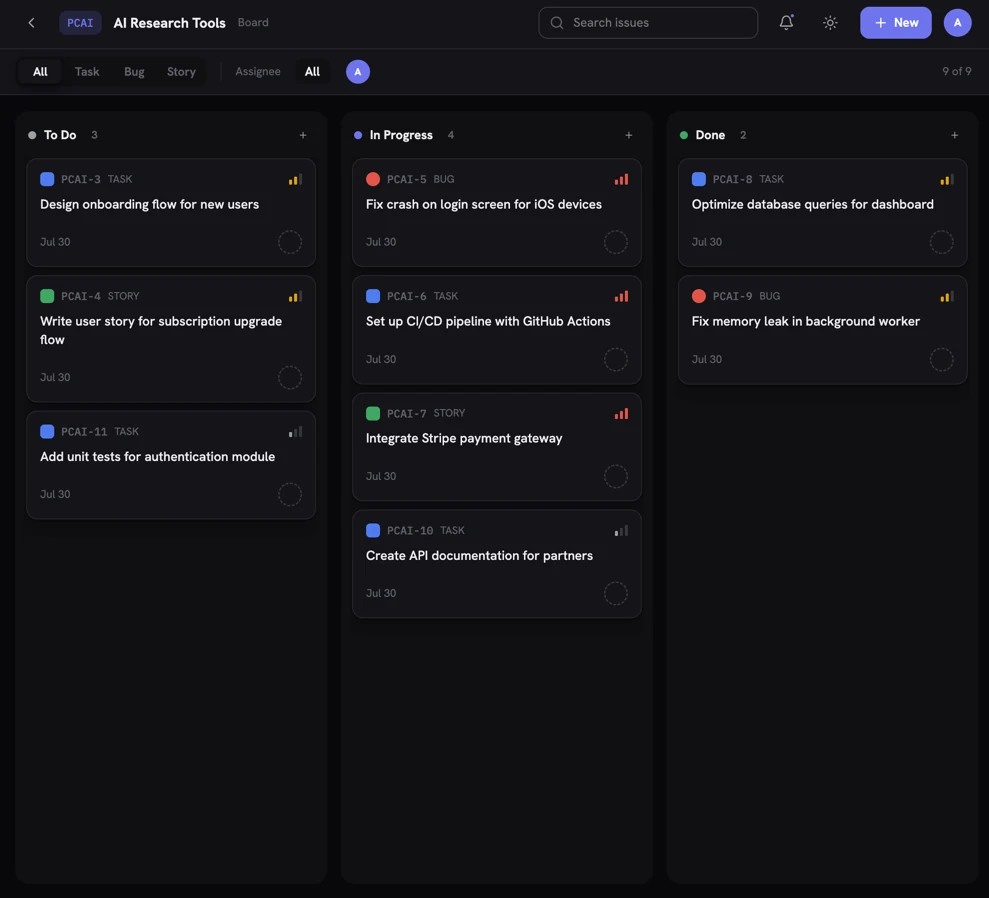
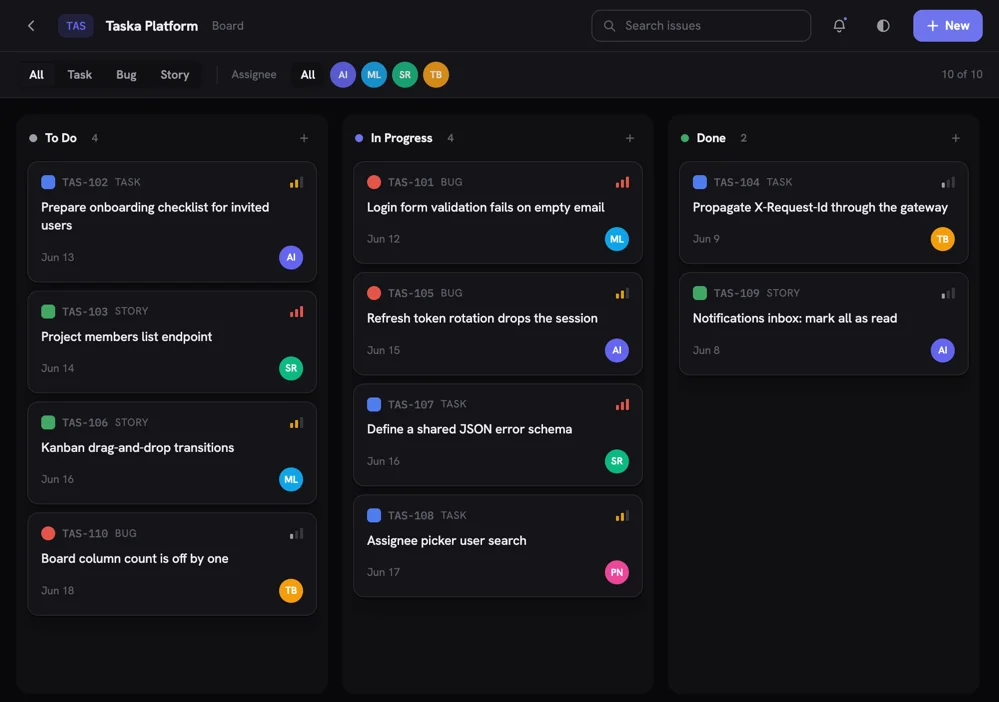
LOD-9 publish Taska captures that do not need cropping
The case spread had an unsolvable geometry and two rejected attempts behind it.
Measured from the sources, the old projects capture carried real content in
only the top 301 of its 768 rows, so 61% of the published frame was empty
indigo; the board wasted 31% the same way. Cropping the emptiness in CSS left a
4.10 strip that rendered a 1234px interface at 0.34 scale in a 0.75fr column.
Moving that strip full-width made it legible but pushed the board off the same
screen, which is the one thing the spread exists to avoid. A 1.60 asset and a
4.10 asset cannot share a row and be simultaneously comparable in height,
legible, and complete.

The owner supplied new captures, which removes the constraint instead of
trading against it: a 1.42 board and a 1.58 projects screen, neither carrying
empty background, both published whole at native ratio. The projects view now
renders at 0.60 of native rather than 0.34.

The phone rule forcing the primary to 4/5 is gone. Against the new capture it
cropped horizontally about the centre and hid the To Do and Done columns
entirely — it had only ever worked by zooming past the old capture's dead
margin, so it was covering for the defect rather than art-directing anything.

The board now shows real Taska development work rather than seeded demo data,
which is stronger evidence for something labelled IN DEVELOPMENT. Alt text in
both locales is rewritten to match: the projects screen shows four workspaces,
[…]

diff --git a/src/siteContent.ts b/src/siteContent.ts
@@ -230,9 +230,9 @@ export const uiCopy: Record<Language, UiCopy> = {
         note:
           'This is an active development project, not a completed customer case.',
         boardAlt:
-          'Taska dark-mode Kanban board with To Do, In Progress, and Done columns',
+          'Taska issue board in dark mode with To Do, In Progress, and Done columns holding ten task, bug, and story cards, each with a date and an assignee avatar',
         projectsAlt:
-          'Taska projects overview with three project workspaces',
+          'Taska projects screen with four project workspace cards, each showing a short description, member avatars, and an issue count',
         boardCaption: 'Issue board — current product interface',
         projectsCaption: 'Project workspaces — supporting view',
       },
@@ -296,7 +296,7 @@ export const uiCopy: Record<Language, UiCopy> = {
       description:
         'Ozero maintains a curated network of engineers around Java-heavy product work. Experienced onboarding, technical oversight, mentoring, and architecture support are available when the engagement needs them.',
       facts: [
-        'Each principal has more than six years of engineering experience',
+        'Each of the two principals has more than six years of engineering experience',
         'Network engineers average about three years of development experience',
         'The network covers Java, full-stack, and project-management work',
         'An English-speaking subset is available; language fit is confirmed during matching',
@@ -325,7 +325,7 @@ export const uiCopy: Record<Language, UiCopy> = {
         {
           question: 'What experience and language coverage is available?',
           answer:
-            'Each principal has more than six years of engineering experience, while network engineers average about three years. Part of the network can work in English; language fit is confirmed during matching.',
+            'Each of the two principals has more than six years of engineering experience, while network engineers average about three years. Part of the network can work in English; language fit is confirmed during matching.',
         },
         {
           question: 'Do you work beyond team extension?',
@@ -457,9 +457,9 @@ export const uiCopy: Record<Language, UiCopy> = {
         note:
           'Это активная разработка, а не завершённый клиентский кейс.',
         boardAlt:
-          'Тёмная Kanban-доска Taska с колонками To Do, In Progress и Done',
+          'Тёмная доска задач Taska с колонками To Do, In Progress и Done: десять карточек task, bug и story, у каждой дата и аватар исполнителя',
         projectsAlt:
-          'Экран проектов Taska с тремя рабочими пространствами',
+          'Экран проектов Taska с четырьмя карточками рабочих пространств: у каждой краткое описание, аватары участников и число задач',
         boardCaption: 'Доска задач — текущий интерфейс продукта',
         projectsCaption: 'Рабочие пространства — дополнительный экран',
       },
@@ -509,7 +509,7 @@ export const uiCopy: Record<Language, UiCopy> = {
         {
           title: 'Старт',
           description:
-            'Реалистичный срок выхода на проект — от одной до трёх недель. Минимальный срок сотрудничества — один месяц.',
+            'Реалистичный срок подключения — от одной до трёх недель. Минимальный срок сотрудничества — один месяц.',
         },
         {
           title: 'Работа',
@@ -542,7 +542,7 @@ export const uiCopy: Record<Language, UiCopy> = {
         {
           question: 'Как быстро можно начать?',
           answer:
-            'Реалистичный срок выхода разработчика или небольшой команды — от одной до трёх недель после того, как согласованы формат работы и доступность. Минимальный срок сотрудничества — один месяц.',
+            'Реалистичный срок подключения разработчика или небольшой команды — от одной до трёх недель после того, как согласованы формат работы и доступность. Минимальный срок сотрудничества — один месяц.',
         },
         {
           question: 'Кто отвечает за продуктовый план и приоритеты?',

diff --git a/index.html b/index.html
@@ -17,14 +17,38 @@
     />
     <meta property="og:type" content="website" />
     <meta property="og:url" content="https://ozero.dev" />
-    <meta property="og:image" content="https://ozero.dev/fishman.png" />
+    <meta property="og:site_name" content="ozero.dev" />
+    <!-- One static document with a client-side locale switch, so the second
+         language is declared as an alternate rather than a separate URL. -->
+    <meta property="og:locale" content="en_US" />
+    <meta property="og:locale:alternate" content="ru_RU" />
+    <!-- Absolute: Telegram and several other scrapers will not resolve a
+         relative og:image. -->
+    <meta
+      property="og:image"
+      content="https://ozero.dev/media/social/og-cover.jpg"
+    />
+    <meta property="og:image:width" content="1200" />
+    <meta property="og:image:height" content="630" />
+    <meta property="og:image:type" content="image/jpeg" />
+    <meta
+      property="og:image:alt"
+      content="The ozero.dev wordmark over dark lake water, above the lines “Java-first team extension” and “One engineer or a small squad · Realistic start in 1–3 weeks”."
+    />
     <meta name="twitter:card" content="summary_large_image" />
     <meta name="twitter:title" content="ozero.dev | Java-first team extension" />
     <meta
       name="twitter:description"
       content="Java-first team extension for startups and growing companies, with managed delivery and AI integrations also available."
     />
-    <meta name="twitter:image" content="https://ozero.dev/fishman.png" />
+    <meta
+      name="twitter:image"
+      content="https://ozero.dev/media/social/og-cover.jpg"
+    />
+    <meta
+      name="twitter:image:alt"
+      content="The ozero.dev wordmark over dark lake water, above the lines “Java-first team extension” and “One engineer or a small squad · Realistic start in 1–3 weeks”."
+    />
     <title>ozero.dev | Java-first team extension</title>
   </head>
   <body>

diff --git a/src/components/ContentExperience.tsx b/src/components/ContentExperience.tsx
@@ -92,8 +92,8 @@ export const ContentExperience = ({
               <div className="case-image-frame">
                 <img
                   src="/media/cases/taska-board.webp"
-                  width="989"
-                  height="898"
+                  width="999"
+                  height="702"
                   loading="lazy"
                   decoding="async"
                   alt={content.work.taska.boardAlt}
@@ -105,8 +105,8 @@ export const ContentExperience = ({
               <div className="case-image-frame">
                 <img
                   src="/media/cases/taska-projects.webp"
-                  width="1234"
-                  height="768"
+                  width="713"
+                  height="450"
                   loading="lazy"
                   decoding="async"
                   alt={content.work.taska.projectsAlt}
@@ -123,10 +123,14 @@ export const ContentExperience = ({
 
     <div className="research-band">
       <article className="content-shell research-case">
-        <div className="research-case__copy" data-reveal>
-          <p className="status-label">{content.work.ai.status}</p>
-          <h3>{content.work.ai.title}</h3>
-          <p>{content.work.ai.description}</p>
+        <div className="research-case__aside">
+          <div className="research-case__copy" data-reveal>
+            <p className="status-label">{content.work.ai.status}</p>
+            <h3>{content.work.ai.title}</h3>
+            <p>{content.work.ai.description}</p>
+          </div>
+
+          <p className="research-case__note">{content.work.ai.note}</p>
         </div>
 
         <ol
@@ -150,8 +154,6 @@ export const ContentExperience = ({
             </li>
           ))}
         </ol>
-
-        <p className="research-case__note">{content.work.ai.note}</p>
       </article>
     </div>
 

diff --git a/src/App.test.tsx b/src/App.test.tsx
@@ -212,18 +212,20 @@ describe('Ozero landing experience', () => {
   it('uses optimized accessible Taska evidence and never publishes the excluded source', () => {
     const { container } = render(<App />);
     const board = screen.getByRole('img', {
-      name: 'Taska dark-mode Kanban board with To Do, In Progress, and Done columns',
+      name: 'Taska issue board in dark mode with To Do, In Progress, and Done columns holding ten task, bug, and story cards, each with a date and an assignee avatar',
     });
     const projects = screen.getByRole('img', {
-      name: 'Taska projects overview with three project workspaces',
+      name: 'Taska projects screen with four project workspace cards, each showing a short description, member avatars, and an issue count',
     });
 
     expect(board).toHaveAttribute(
       'src',
       '/media/cases/taska-board.webp'
     );
-    expect(board).toHaveAttribute('width', '989');
-    expect(board).toHaveAttribute('height', '898');
+    // The reserved box must equal the published file, or the spread reflows
+    // once the lazy image decodes.
+    expect(board).toHaveAttribute('width', '999');
+    expect(board).toHaveAttribute('height', '702');
     expect(board).toHaveAttribute('loading', 'lazy');
     expect(board).toHaveAttribute('decoding', 'async');
 
@@ -231,8 +233,8 @@ describe('Ozero landing experience', () => {
       'src',
       '/media/cases/taska-projects.webp'
     );
-    expect(projects).toHaveAttribute('width', '1234');
-    expect(projects).toHaveAttribute('height', '768');
+    expect(projects).toHaveAttribute('width', '713');
+    expect(projects).toHaveAttribute('height', '450');
     expect(projects).toHaveAttribute('loading', 'lazy');
     expect(projects).toHaveAttribute('decoding', 'async');
 

diff --git a/docs/ai/reviews/LOD-9-art-direction.md b/docs/ai/reviews/LOD-9-art-direction.md
@@ -90,6 +90,63 @@ clash as honest evidence.
 - `README.md` is still Create React App boilerplate, as flagged in the LOD-5
   and LOD-6 content review.
 
+## Owner decision, 2026-07-31: the Taska frames ship whole
+
+The re-run of this review raised a second blocking finding: the published case
+screenshots ship mostly empty background. Measured from the private sources,
+`img_1.png` carries real content only in rows 0–300 of 768, so 61% of the
+projects frame is empty indigo, and `img_2.png` ends at row 617 of 898, so 31%
+of the board frame is empty.
+
+Two corrections were implemented and both were rejected by the owner on sight.
+
+Cropping the frame in CSS removed the void but left a 4.1:1 strip in a 0.75fr
+column, about 415px wide and 101px tall, rendering a 1234px-wide interface at
+0.34 scale. Illegible, and it read as a mistake rather than as evidence.
+
+Moving the strip to full width below the board made it legible at roughly 1.05
+scale, but it cut the board out of the same screen. That broke the thing the
+spread exists for: seeing the issue board and the project workspaces at once,
+in one row.
+
+The geometry does not admit a clean answer. The board is 1.60 and the projects
+view is 4.10, so in a shared row they cannot be simultaneously comparable in
+height, legible, and complete. The owner chose to keep the original
+composition — both screens side by side, each shown whole, including the empty
+field beneath the projects view.
+
+**This overruled a blocking art-direction finding, deliberately.** It was
+recorded here rather than resolved quietly.
+
+### Resolved the same day, by removing the constraint
+
+The owner then supplied new captures, which is the one move neither correction
+could make. The published pair is now a 1.42 board and a 1.58 projects screen,
+neither carrying any empty background:
+
+```
+board     999×702  ratio 1.42   Taska Platform, ten issues, four members
+projects  713×450  ratio 1.58   four workspaces with descriptions
+```
+
+Close enough in proportion to share a row at comparable height, complete, and
+uncropped at every viewport. The projects view now renders at 0.60 of native
+instead of 0.34. The finding is closed on its merits rather than by decision,
+and the override above is spent.
+
+Two things fell out of the swap. The `aspect-ratio: 4 / 5` that the phone rule
+forced on the primary had to go — against the new capture it cropped
+horizontally about the centre and hid the To Do and Done columns outright. It
+had only ever worked by zooming past the old capture's dead margin, so it was
+compensating for the defect rather than art-directing anything. And the board
+now shows real Taska development work — `Kanban drag-and-drop transitions`,
+`Board column count is off by one` — instead of seeded demo data, which is
+materially stronger evidence for a product labelled `IN DEVELOPMENT`.
+
+The chroma question in finding 6 is also quieter as a result: the new captures
+carry the same product chrome but no longer devote most of their area to an
+empty indigo field.
+
 ## Amendment record
 
 `REFERENCE-LOCK.md` § Locked synthesis and § Composition rules, and

diff --git a/docs/ai/CONTENT-BRIEF.md b/docs/ai/CONTENT-BRIEF.md
@@ -88,10 +88,29 @@ Status is always `IN DEVELOPMENT` / `В РАЗРАБОТКЕ`.
 
 Describe it as a Jira/Kanban-like work-management product in active
 development. Show the evolving interface and product decisions, never a
-completed customer outcome. Use only optimized derivatives of:
+completed customer outcome.
 
-- `private-assets/taska-source/img_2.png` as the primary board evidence;
-- `private-assets/taska-source/img_1.png` as the supporting projects view.
+**Sources replaced 2026-07-31.** The published derivatives now come from:
+
+- `private-assets/taska-source-v2/img_4-board.png` — the board evidence;
+- `private-assets/taska-source-v2/img_3-projects.png` — the projects view.
+
+The first pair — `taska-source/img_2.png` and `img_1.png` — is superseded but
+preserved. It was replaced for a measured reason rather than a preference: the
+old projects capture carried real content in only the top 301 of its 768 rows,
+so 61% of the published frame was empty background, and removing that emptiness
+left a 4.10 strip that could not share a row with a 1.60 board and stay
+legible. Two corrections were attempted and both were rejected; see
+`docs/ai/reviews/LOD-9-art-direction.md`.
+
+The replacement captures are 1.42 and 1.58, close enough to sit side by side at
+comparable height, and neither carries empty background, so neither needs a
+crop. The board also shows real Taska development work rather than seeded demo
+data, which is stronger evidence of a product in active development.
+
+Member avatars showing initials appear in both captures. They are product
+interface, not a team section, and carry no names, photographs or profile
+links, so they stay. The owner confirmed this explicitly on 2026-07-31.
 
 Never publish or preload `img.png`, because it contains a visible login email.
 Preserve all three user-supplied source files unchanged and untracked.
@@ -137,9 +156,13 @@ must be explicitly labelled `PAUSED` / `ПРИОСТАНОВЛЕН`.
 - Hero motion remains the only cinematic motion. Below it, controls may use
   only 120–200ms color/opacity feedback.
 
-Taska uses a large asymmetric editorial spread. The board is cropped from the
-top at a stable aspect ratio, while the projects view remains close to its
-native ratio. Mobile crops are art-directed, not scaled desktop compositions.
+Taska uses a large asymmetric editorial spread. **Amended 2026-07-31:** both
+captures are now published whole, at their native ratios, at every viewport.
+The board is no longer cropped from the top, and the phone rule that forced it
+to `4 / 5` is gone — against the replacement capture that crop cut away the To
+Do and Done columns entirely, because it only ever worked by zooming past the
+old capture's dead margin. Asymmetry now comes from the column widths, which is
+where it belongs, rather than from cropping one image harder than the other.
 Every `<img>` reserves space, is lazy below the fold, and has localized alt
 text.
 

diff --git a/docs/ai/ASSET-PROVENANCE.md b/docs/ai/ASSET-PROVENANCE.md
@@ -273,3 +273,51 @@ without it.
 It replaces `fishman.png` as `og:image`, which was 1536×1024, so every social
 scraper cropped it to an unintended composition, and 1.03MB fetched on every
 share.
+
+## Taska case captures, replaced 2026-07-31
+
+Owner-supplied product screenshots, not generated. Preserved untracked in
+`private-assets/taska-source-v2/` alongside the superseded first pair in
+`private-assets/taska-source/`, which is kept rather than deleted so the
+decision stays reversible.
+
+| Published file | Source | Native |
+| --- | --- | --- |
+| `public/media/cases/taska-board.webp` | `taska-source-v2/img_4-board.png` | 999×702, ratio 1.42 |
+| `public/media/cases/taska-projects.webp` | `taska-source-v2/img_3-projects.png` | 713×450, ratio 1.58 |
+
+Encoded with `cwebp -q 86`, the same setting as the hero posters. **No crop.**
+Unlike the first pair, neither capture carries empty background, so the
+published frame is the whole capture at its native ratio — which is what
+CONTENT-BRIEF asks for and what the first pair could not deliver.
+
+### Why the first pair was replaced
+
+Measured from the sources, background detected as the modal grey value rather
+than assumed black:
+
+```
+img_2.png (board)     989×898  ink ends row 617  31.2% empty  ratio 1.60
+img_1.png (projects) 1234×768  ink ends row 300  60.8% empty  ratio 4.10
+```
+
+The projects capture was three fifths empty. Publishing it whole wasted most of
+the frame; cropping the emptiness left a 4.10 strip that, in the 0.75fr column
+of an asymmetric spread, rendered a 1234px-wide interface at 0.34 scale. Both
+were tried and rejected. The geometry admitted no third answer, because a 1.60
+and a 4.10 asset cannot share a row and be simultaneously comparable in height,
+legible, and complete.
+
+The replacement pair removes the constraint rather than working around it.
+
+### A handling note worth keeping
+
+The owner delivered these by dropping them into `public/media/cases/`. Vite
+copies the whole of `public/` into `dist/` regardless of whether anything
+references a file, so all five arrived one build away from being served at
+`https://ozero.dev/media/cases/…`, uncurated. One of them had already reached a
+local `dist/`. They were moved out before any build was published.
+
+This is the same trap recorded in CONTENT-BRIEF about `img.png`: **anything
+that must not be served cannot live in `public/`, and being unreferenced is not
+protection.** Incoming source material belongs in `private-assets/`.
